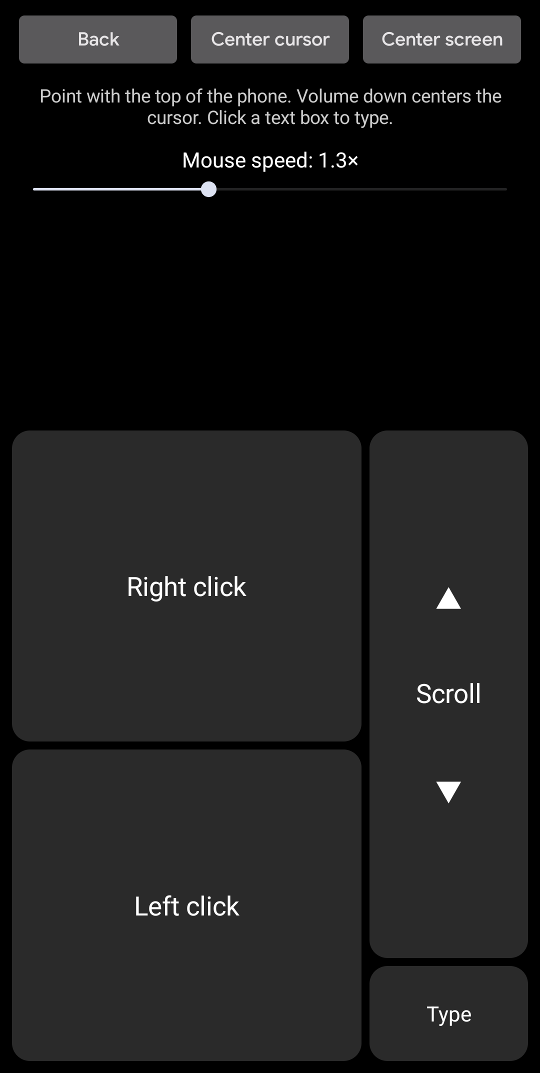
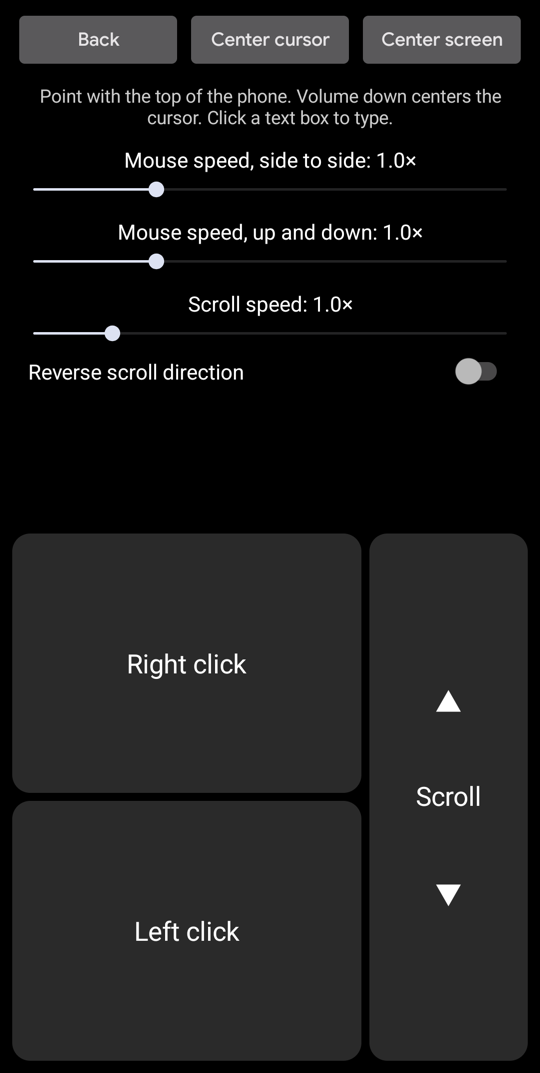
Update the README screenshots

diff --git a/README.md b/README.md
@@ -23,7 +23,7 @@ Note that the mouse cursor looks normal in the glasses, but doesn't show up in s
 
 <p>
   <img src="docs/main-screen.png" width="270" alt="Main screen: Stop Stabilization, Recenter and Mouse, the drift time, max rotation and drift curve">
-  <img src="docs/mouse-screen.png" width="270" alt="Mouse screen: Back, Center cursor, Center screen, mouse speed, Right and Left click and the scroll strip">
+  <img src="docs/mouse-screen.png" width="270" alt="Mouse screen: Back, Center cursor, Center screen, the mouse and scroll speeds, reverse scrolling, Right and Left click and the scroll strip">
 </p>
 
 ## Features
